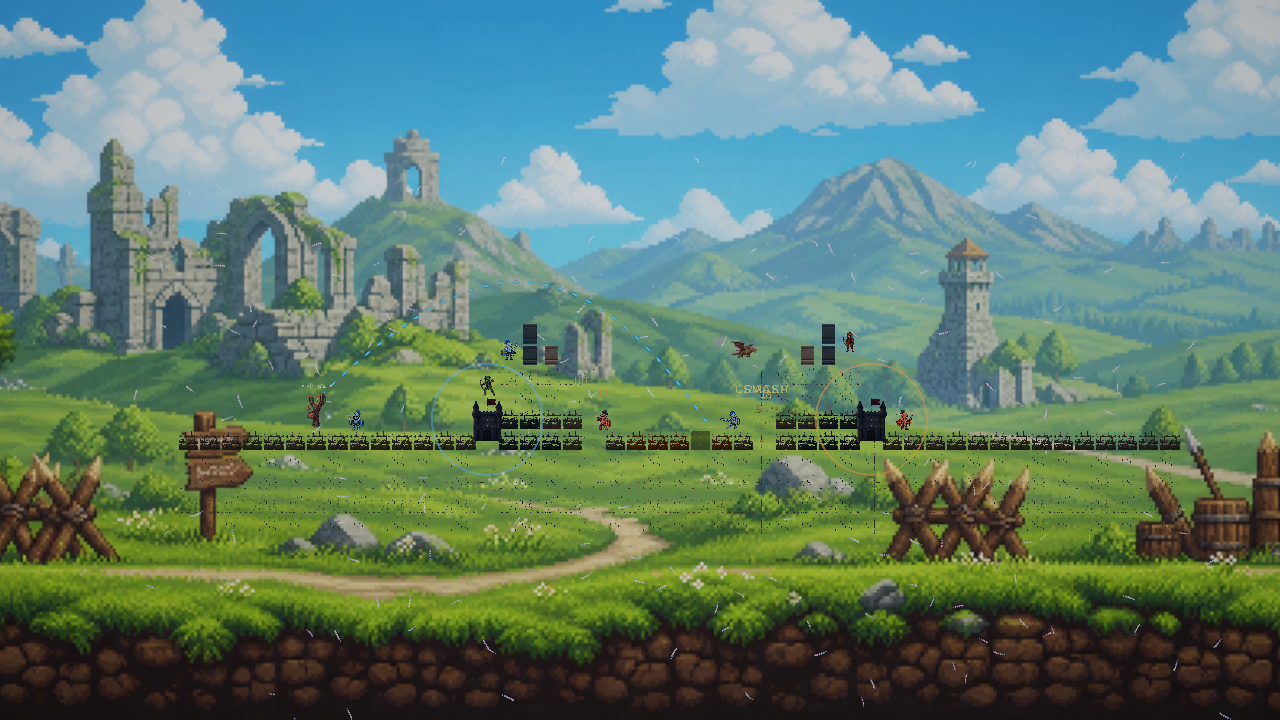
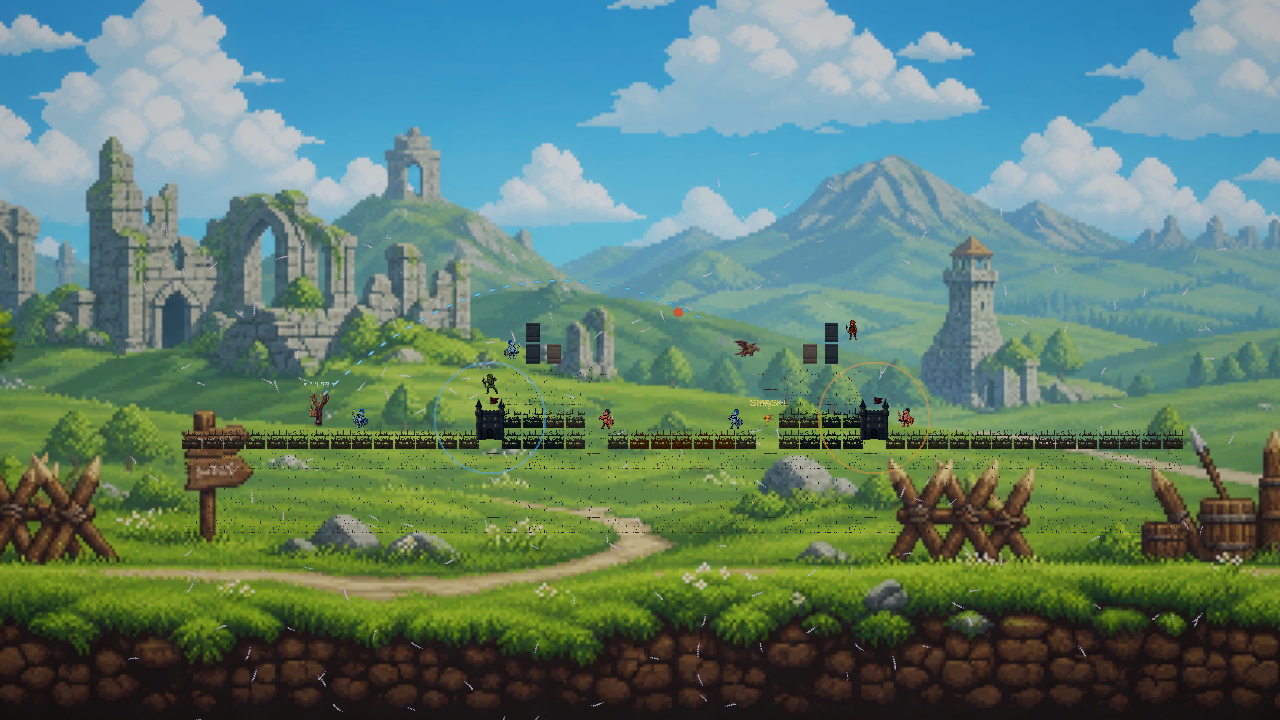
fix(aim): clear the preview when the shot launches
Four attempts went into the wrong renderer. The screenshot said so and I did not
read it: the arc has NO gaps. `ShotTraceDirector` draws dashed whether the shot is
live or spent, so a continuous line was never it.

`LaunchUnit()` does not clear the aim preview, and `HandleKeyboardFineTune`
redraws it every frame while `keyboardAimTouchedThisTurn` holds. So the predicted
arc stayed on screen through the whole flight, over the live trace that had
replaced it. That is pre-existing behaviour, and it went unnoticed while the
preview was a thin translucent line — the dark halo I added in the trace work
turned the same leftover into a 10.8px navy ribbon from launcher to impact.

Which is exactly what was reported, four times, while I thinned and lightened a
renderer that was not on screen.

`keyboardAimTouchedThisTurn` resets too, or the next arrow key is not what summons
the preview back: it would already be armed and return on its own.

The probe proved nothing at first. `SimulateLaunch` leaves the preview unarmed, so
"no preview during flight" was true because there had never been one — and the
mutation test caught it, passing with the fix removed. Arming the preview by
reflection first makes it real: without the clear the aim line draws 78 positions
during flight, with it, zero. 78 is the whole predicted arc, which is the ribbon.

EditMode 592/593, zero failures, one legitimate skip.

diff --git a/Assets/Tests/PlayMode/LiveArcDuringFlightProbe.cs b/Assets/Tests/PlayMode/LiveArcDuringFlightProbe.cs
@@ -46,6 +46,28 @@ namespace CastleBusters.Tests
                 "a player arc exists before anything has been fired; this probe cannot tell a live "
                 + "arc from a leftover one if the board opens with one already drawn.");
 
+            // Arm the aim preview the way a player does, BEFORE launching.
+            //
+            // Without this the probe proves nothing about the reported case: `SimulateLaunch` alone
+            // leaves `keyboardAimTouchedThisTurn` false, so `HandleKeyboardFineTune` never draws the
+            // preview and "the preview is gone during flight" is true because it was never there.
+            // A mutation test caught exactly that — removing the clear in `LaunchUnit` left the
+            // probe passing.
+            var touched = typeof(LaunchManager).GetField(
+                "keyboardAimTouchedThisTurn",
+                System.Reflection.BindingFlags.Instance | System.Reflection.BindingFlags.NonPublic);
+            Assert.That(touched, Is.Not.Null, "keyboardAimTouchedThisTurn is gone or renamed");
+            touched.SetValue(lm, true);
+
+            var draw = typeof(LaunchManager).GetMethod(
+                "DrawTrajectory",
+                System.Reflection.BindingFlags.Instance | System.Reflection.BindingFlags.NonPublic);
+            Assert.That(draw, Is.Not.Null, "DrawTrajectory is gone or renamed");
+            draw.Invoke(lm, new object[] { lm.GetSeparatedAimVelocity() });
+
+            Assert.That(lm.trajectoryLine.positionCount, Is.GreaterThan(1),
+                "the aim preview must actually be up before launching, or this measures nothing");
+
             lm.SimulateLaunch(lm.GetSeparatedAimVelocity());
 
             // Poll while the shot is airborne. The sample gate is 0.35 world units, so two points
@@ -55,6 +77,8 @@ namespace CastleBusters.Tests
             float peakAt = -1f;
             bool sawWhileOpen = false;
             float elapsed = 0f;
+            bool aimVisibleDuringFlight = false;
+            int aimPeak = 0;
 
             while (elapsed < 2.5f)
             {
@@ -69,6 +93,14 @@ namespace CastleBusters.Tests
                 if (arc != null && arc.positionCount >= 2 && ShotTraceDirector.ShotOpen)
                 {
                     sawWhileOpen = true;
+                }
+
+                // Same loop, second question: is the AIM arc still up?
+                if (ShotTraceDirector.ShotOpen)
+                {
+                    int aimCount = lm.trajectoryLine != null ? lm.trajectoryLine.positionCount : 0;
+                    if (aimCount > aimPeak) aimPeak = aimCount;
+                    if (aimCount > 1) aimVisibleDuringFlight = true;
                 }
 
                 yield return new WaitForSecondsRealtime(0.1f);
@@ -107,14 +139,27 @@ namespace CastleBusters.Tests
             Directory.CreateDirectory(dir);
             File.WriteAllText(Path.Combine(dir, "live-arc.txt"), string.Format(
                 CultureInfo.InvariantCulture,
-                "saw arc while shot open: {0}\npeak positions: {1}\nfirst seen at: {2:F1}s\n",
-                sawWhileOpen, peakPositions, peakAt));
+                "saw arc while shot open: {0}\npeak positions: {1}\nfirst seen at: {2:F1}s\n"
+                + "aim preview visible during flight: {3}\naim peak positions: {4}\n",
+                sawWhileOpen, peakPositions, peakAt, aimVisibleDuringFlight, aimPeak));
 
             Assert.That(sawWhileOpen, Is.True,
                 $"the arc never had two or more points while the shot was still open. Peak was "
                 + $"{peakPositions} positions at {peakAt:F1}s. `Sample` must draw what it has "
                 + "accumulated; accumulating silently and drawing in `Seal` puts the arc on screen "
                 + "only after the projectile has landed, which is the defect this pins.");
+
+            // The AIM preview must be gone while the shot flies. It is a different renderer from the
+            // trace — LaunchManager's `trajectoryLine` plus the dark halo behind it — and nothing
+            // cleared it on launch, so the predicted arc stayed drawn over the whole flight. While
+            // it was a thin translucent line nobody noticed; with the halo it became a 10.8px navy
+            // ribbon from launcher to impact, and four rounds of fixes went into the wrong renderer
+            // chasing it.
+            Assert.That(aimVisibleDuringFlight, Is.False,
+                $"the aim preview was still drawn during flight (peak {aimPeak} positions). Its job "
+                + "ends when the unit leaves the sling, and the in-flight trace is what describes the "
+                + "shot from then on. Two arcs over one projectile is the defect, whatever either "
+                + "one's colour is.");
 
             Assert.That(peakPositions, Is.GreaterThan(3),
                 $"the live arc peaked at {peakPositions} positions. The sample gate is 0.35 world "

diff --git a/Assets/Scripts/LaunchManager.cs b/Assets/Scripts/LaunchManager.cs
@@ -1347,6 +1347,25 @@ namespace CastleBusters
 
             var firstUnit = SpawnAndLaunchOne(launchVelocity);
 
+            // The aim preview's job ended the instant the unit left the sling. Clearing it here is
+            // what was missing: `LaunchUnit` never did, and `HandleKeyboardFineTune` redraws the
+            // preview every frame while `keyboardAimTouchedThisTurn` holds — so the predicted arc
+            // stayed on screen through the whole flight, on top of the live trace that replaced it.
+            //
+            // It went unnoticed while the preview was a thin translucent line. Adding the dark halo
+            // turned the same leftover into a 10.8px navy ribbon from the launcher to the impact
+            // point, which is what got reported as "the arc is too thick to see the projectile" —
+            // and it was never the in-flight trace at all. Four attempts were spent thinning and
+            // lightening the wrong renderer.
+            //
+            // `keyboardAimTouchedThisTurn` is reset too, or the next arrow key is not what summons
+            // the preview back: it would already be armed and reappear on its own.
+            if (trajectoryLine != null) trajectoryLine.positionCount = 0;
+            if (trajectoryHalo != null) trajectoryHalo.positionCount = 0;
+            keyboardAimTouchedThisTurn = false;
+            UpdateImpactMarker(false);
+            HideLaunchStats();
+
             // Set wind effect origin and radius for this launch
             if (GameManager.Instance != null)
             {

diff --git a/_workspace/current/production/task-manifest.md b/_workspace/current/production/task-manifest.md
@@ -144,3 +144,4 @@ Blocking notes:
 | 76 | 발사 후 궤적이 여전히 어둡다 - 점선을 밝게 + 발사체 강조 | design + engineering + QA | done 2026-08-20 - 사용자 보고 "발사하고 나선 궤적 표시가 점선으로 날라가는 물체가 잘 보였으면". 모호한 절반은 **인터뷰로 확정**했다 - 답: "궤적 + 발사체 둘 다", "점은 보이는데 어둡다". **측정이 반직관적 사실을 말했다: 밝게 하면 더 나빠진다.** 코어는 대시(피크 알파 0.549)를 통해 **거의 검은 케이싱 위에** 칠해지므로 흰 점이 **중간 회색 0.536**으로 합성되고, 이 판의 하늘(0.72)보다 **어둡다** - 하늘 대비 1.14, 초지 1.25(기준선 3:1). 불투명하게 해도 흰색 2.44·호박 1.58·주황 1.06으로 전부 미달인데, 양 배경이 중간 밝기라 **창백한 선은 갈 곳이 없다**. **레버는 색이 아니라 불투명도**: 불투명 흰 점 대 어두운 케이싱 **15.11**, 케이싱 대 하늘 6.18·초지 4.45 - 눈이 쓰는 모든 경계가 여유롭게 통과한다. 2층 구조는 이미 있었고 **대시의 알파 상한이 밝은 층을 밝지 못하게 하고 있었다.** 조치 - (a) `OpaqueDashTexture()`: 공유 대시의 알파를 **비례 상승**(임계값 아님 - 이 굵기(~3px)에서 컷오프는 점에 계단이 생긴다), 같은 주기·듀티·위상 유지. 라이브만 사용하고 spent는 반투명 유지("지난 shot은 기억으로 읽혀야 한다"는 기존 설계이고 사용자도 발사 전은 상관없다고 했다). (b) 라이브 코어 알파를 양 끝 1.0 - 발사구 쪽 페이드는 기억 신호이고 아직 착탄하지 않은 shot은 기억할 것이 없다. (c) **머리 테이퍼 1.9배**: 발사체가 마지막 정점이므로 스트립이 **따라가는 대상이 있는 바로 그 자리에서 가장 굵다** - 화살촉 없이 방향이 읽히고, 별도 렌더러나 shot보다 오래 사는 마커가 필요 없다. 케이싱도 함께 테이퍼해 림이 머리에서 밀리지 않는다. **발견: `trajectory_dash`가 읽기 불가였다** - `GetPixels32`가 던져 알파 상승이 조용히 원본을 반환했고 **런타임에서 수정이 아무것도 하지 않았다**(지면 타일과 같은 부류). 64×16·446바이트라 읽기 활성 비용이 없다. 테스트가 Skip으로 그것을 알렸다. 부수 수정 - 캐시 정리가 EditMode에서 `Destroy`를 불러 `ConsecutiveShots_DoNotInheritEachOthersTally`의 SetUp을 깨뜨렸다(`DestroyImmediate`로 분기). 근거: EditMode **592/593**(실패 0, Skip 1 정당), PlayMode 1/1, 비행 중 캡처 `qa/evidence/visibility/live-arc-inflight.png`(42점) | G4/G6 |
 | 77 | 작업 76의 머리 테이퍼가 발사체를 덮었다 - 되돌림 | engineering + QA | done 2026-08-20 - 사용자 스크린샷: 궤적이 **두꺼운 남색 리본**이고 점선이 아니며 발사체가 그 안에 묻혔다. 오른쪽(머리)이 굵으니 **작업 76의 테이퍼가 원인**이다. 실측 - 머리에서 케이싱이 0.399u = **13px 거의 검정**이고 발사체는 약 32px이므로 **발사체 폭의 40%를 검정이 덮는다**. 그 안의 코어는 6.4px이라 결과는 "얇은 밝은 심이 있는 검은 리본"이고 스크린샷과 정확히 일치한다. **그리고 테이퍼가 대시까지 죽였다** - `LineTextureMode.Tile`은 선 **폭**에 상대적으로 타일링하므로 1.9배 넓히면 대시 주기도 1.9배 늘어나 마크가 이어진다. 즉 하나의 변경이 두 증상을 만들었고 둘 다 요청과 반대였다. **머리 마커는 요청이 아니라 제 발상이었고**, 그것이 섬기려던 요청("발사체가 잘 보이게")은 **발사체 위에 그리지 않는 것**으로 더 잘 섬긴다. 조치 - (a) 테이퍼 제거(`Apply`의 `endWidthMult` 매개변수도 함께 삭제, 죽은 인자를 남기지 않는다), (b) 케이싱을 거의 검정(0.03,0.028,0.05) -> **짙은 남(0.05,0.09,0.28)**: 하늘 6.18->**5.01**, 초지 4.45->**3.67**로 둘 다 3:1 기준선을 여유롭게 유지하고 흰 코어와의 대비도 15.11->**12.33**으로 충분한데, **밝은 하늘 위의 검은 띠이기를 그만둔다** - 사용자가 말한 "연하게"가 요구한 것. 검증: 비행 중 캡처에서 점선이 얇게 분리돼 보이고 리본이 사라졌다(37점). 근거: EditMode **592/593**(실패 0, Skip 1 정당), PlayMode 1/1, `qa/evidence/visibility/live-arc-inflight.png` | G4/G6 |
 | 78 | 라이브 궤적 케이싱이 여전히 어두워 발사체를 가린다 | engineering + QA | done 2026-08-20 - 사용자 재보고 "아직 짙은 남색이 보인다, 버튼 놓아 발사될 때 궤적이 너무 어두워 발사체가 안 보인다". **조준 헤일로를 먼저 의심했고 아니었다** - `LaunchManager`의 헤일로도 (0.03,0.08,0.30) 짙은 남색이지만 발사 시 `:1020`이 조준선을 0으로 만들고 `LateUpdate` 미러가 따라 0이 된다. 원인은 작업 77의 "연하게"가 **색만 한 걸음 옮겼고 폭은 그대로**였던 것 - 케이싱이 spent 폭 0.21u = **6.8px**이고 발사체는 32px이므로 **지켜보려는 대상의 21%를 윤곽선용 어두운 층이 덮는다**. 핵심 통찰: **대비를 만드는 것은 경계이고 면적이 아니다** - 흰 코어 대 림은 림이 1.7px이든 1.0px이든 **12.33:1 동일**하다(두 색의 비율이고 두 면적의 비율이 아니다). 조치: 라이브에서만 케이싱을 코어의 **1.6배**(림 한쪽 **1.0px**)로 줄인다. 2배 아래로 내리는 하한은 1.35배 - 그 아래는 림이 반 픽셀 미만이 되어 안티에일리어싱이 먹고, **제거된 적 없이 림이기를 그만둔다**. spent는 넓은 케이싱 유지(정지 상태로 읽히고, 변한 판 위에 놓이며, 가릴 발사체가 없다). 검증: 비행 중 캡처에서 점선이 밝은 시안으로 얇게 보이고 검은 띠 없이 발사체가 그대로 보인다. 근거: EditMode **591/593**(실패 1 = MCP 노이즈, Skip 1 정당), PlayMode 1/1, `qa/evidence/visibility/live-arc-inflight.png` | G4/G6 |
+| 79 | 발사 후 두꺼운 남색 리본 - 진짜 원인은 지워지지 않은 조준 프리뷰 | engineering + QA | done 2026-08-20 - **네 번의 시도가 전부 엉뚱한 렌더러를 고쳤다.** 사용자 스크린샷을 다시 보고 결정적 단서를 찾았다 - **점이 하나도 없고 완전히 이어진 선**이다. `ShotTraceDirector`는 라이브든 spent든 항상 점선이므로 그것이 아니다. 원인: **`LaunchUnit()`이 조준선을 지우지 않는다**. 그리고 `HandleKeyboardFineTune`이 `keyboardAimTouchedThisTurn`이 참인 동안 매 프레임 프리뷰를 다시 그린다 - 즉 발사 후에도 예측 궤적이 화면에 남는다. 이것은 **원래 있던 동작**이고 얇은 반투명 선이라 눈에 안 띄었는데, 제가 작업 76에서 넣은 헤일로(짙은 남색, `0.12 × 2.8 = 0.336u = 10.8px`, 의도적으로 텍스처 없음 = 솔리드)가 그 잔여물을 **두꺼운 남색 리본**으로 만들었다. 조치: `LaunchUnit`에서 조준선·헤일로를 0으로, `keyboardAimTouchedThisTurn`도 리셋(아니면 다음 화살표 키가 프리뷰를 소환하는 것이 아니라 이미 무장돼 저절로 돌아온다), 탄착 마커·통계도 숨김. **프로브가 처음엔 아무것도 증명하지 않았다** - `SimulateLaunch`만 부르면 `keyboardAimTouchedThisTurn`이 거짓이라 프리뷰가 애초에 그려지지 않고 "비행 중 프리뷰 없음"이 참이 된다. **변이 테스트가 그것을 잡았다**(정리를 제거해도 통과). 반사로 프리뷰를 무장시킨 뒤 다시 변이 - **정리 없으면 78점, 있으면 0점**. 78점은 예측 궤적 전체이고 그것이 스크린샷의 리본이다. 근거: EditMode **592/593**(실패 0, Skip 1 정당), PlayMode 1/1, 변이 확증, `qa/evidence/visibility/live-arc.txt` | G4/G6 |
